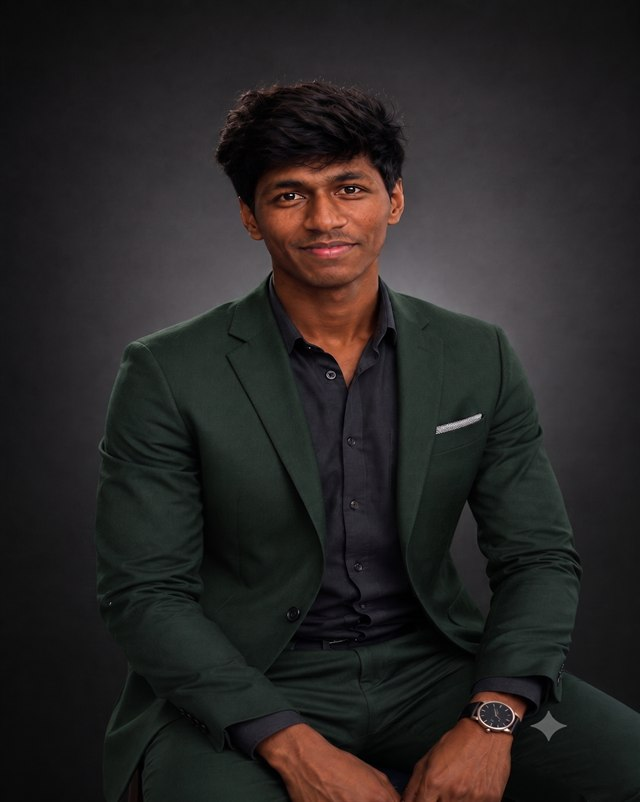
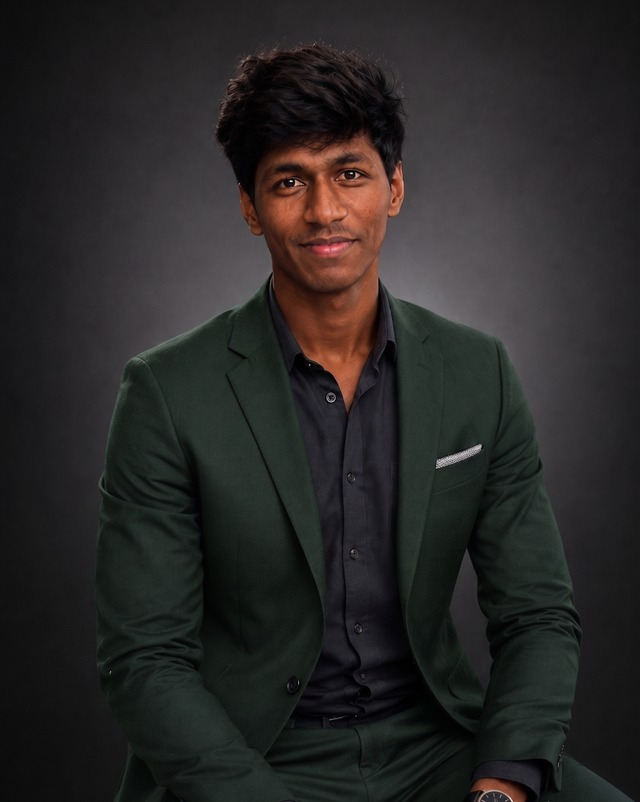
update portfolio project assets and portrait

diff --git a/site/index.html b/site/index.html
@@ -22,7 +22,7 @@
   <meta name="twitter:image" content="https://maheshchalla2701.github.io/MaheshChalla2701/assets/img/mahesh-portrait.jpg">
 
   <link rel="icon" href="favicon.svg" type="image/svg+xml">
-  <link rel="preload" as="image" href="assets/img/mahesh-portrait-640.jpg" fetchpriority="high">
+  <link rel="preload" as="image" href="assets/img/mahesh-portrait-640.jpg?v=2" fetchpriority="high">
 
   <link rel="preconnect" href="https://fonts.googleapis.com">
   <link rel="preconnect" href="https://fonts.gstatic.com" crossorigin>
@@ -467,8 +467,8 @@
           <div class="portrait__frame">
             <div class="portrait__photo">
               <img
-                src="assets/img/mahesh-portrait-640.jpg"
-                srcset="assets/img/mahesh-portrait-640.jpg 640w, assets/img/mahesh-portrait.jpg 1100w"
+                src="assets/img/mahesh-portrait-640.jpg?v=2"
+                srcset="assets/img/mahesh-portrait-640.jpg?v=2 640w, assets/img/mahesh-portrait.jpg?v=2 1100w"
                 sizes="(min-width: 960px) 460px, 80vw"
                 width="640" height="802"
                 alt="Portrait of Mahesh Challa, AI engineer and product builder"

diff --git a/README.md b/README.md
@@ -35,11 +35,10 @@
   <a href="https://github.com/MaheshChalla2701/collaborative-ai"><img src="https://img.shields.io/badge/Repository-Collaborative_AI-1F5A45?style=for-the-badge&labelColor=0D1B14&logoColor=F3F6F1&logo=github" alt="Collaborative AI repository"></a>
 </p>
 
-<a href="https://github.com/MaheshChalla2701/Safe-Street"><img src="assets/project-safestreet-v2.svg" width="100%" alt="SafeStreet: Road damage detection and surface hazard classification using deep computer vision and OpenCV. Python, CNN, OpenCV, TensorFlow."></a>
+<a href="https://github.com/MaheshChalla2701/Operation-Evolve"><img src="assets/project-safestreet-v2.svg" width="100%" alt="Operation Evolve: Self-evolving AI training architecture where models introspect on failure modes and iteratively update parameters. Python, PyTorch, Reinforcement Learning, AI Agents."></a>
 <p align="center">
-  <a href="https://github.com/MaheshChalla2701/Safe-Street"><img src="https://img.shields.io/badge/Repository-SafeStreet-1F5A45?style=for-the-badge&labelColor=0D1B14&logoColor=F3F6F1&logo=github" alt="SafeStreet repository"></a>
-  <a href="https://github.com/MaheshChalla2701/CNN-FROM-SCRATCH"><img src="https://img.shields.io/badge/Repository-CNN_from_Scratch-1F5A45?style=for-the-badge&labelColor=0D1B14&logoColor=F3F6F1&logo=github" alt="CNN from Scratch repository"></a>
   <a href="https://github.com/MaheshChalla2701/Operation-Evolve"><img src="https://img.shields.io/badge/Repository-Operation_Evolve-1F5A45?style=for-the-badge&labelColor=0D1B14&logoColor=F3F6F1&logo=github" alt="Operation Evolve repository"></a>
+  <a href="https://github.com/MaheshChalla2701/CNN-FROM-SCRATCH"><img src="https://img.shields.io/badge/Repository-CNN_from_Scratch-1F5A45?style=for-the-badge&labelColor=0D1B14&logoColor=F3F6F1&logo=github" alt="CNN from Scratch repository"></a>
 </p>
 
 <img src="assets/title-toolkit.svg" width="100%" alt="04 Toolkit — Tools I build with.">
